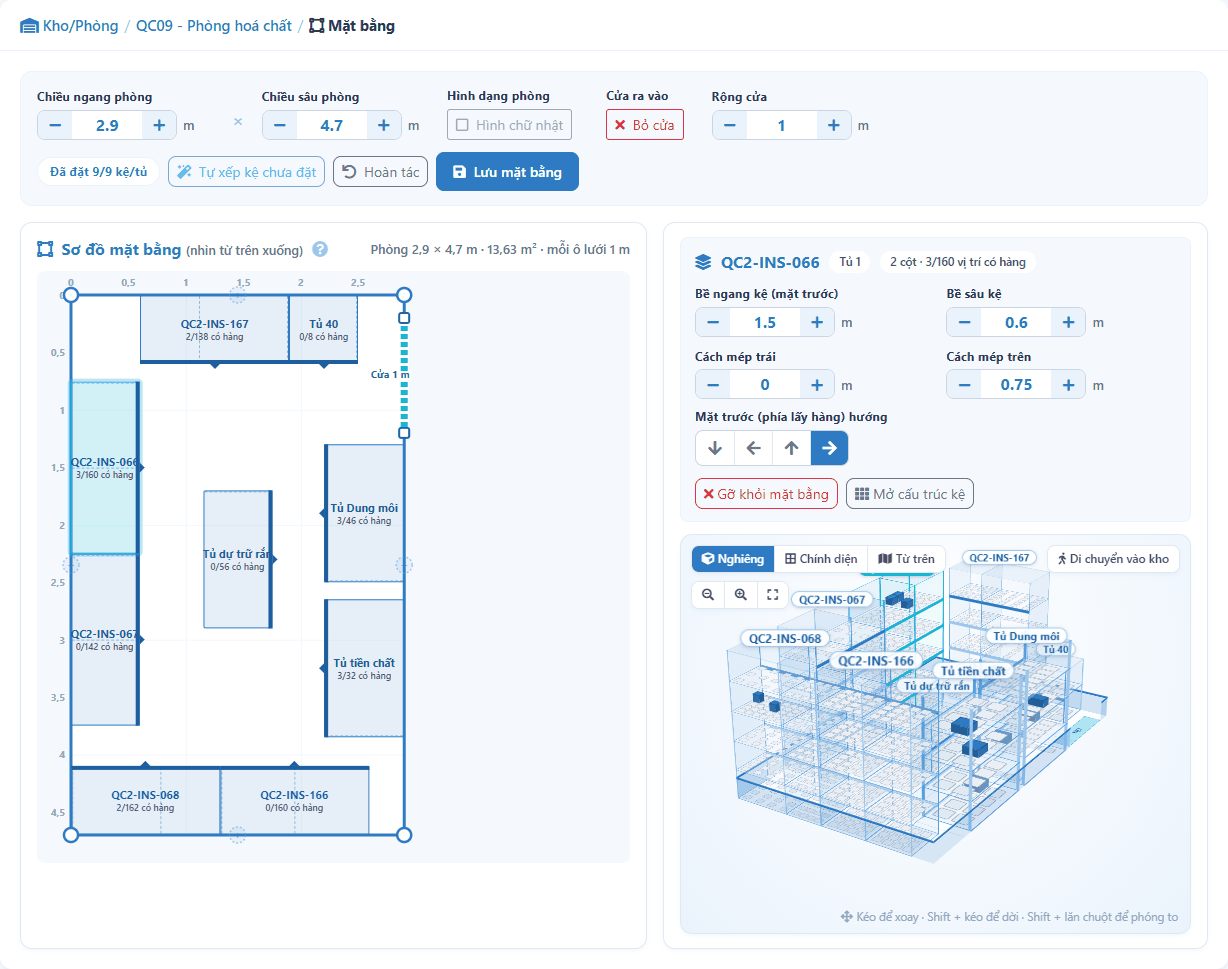
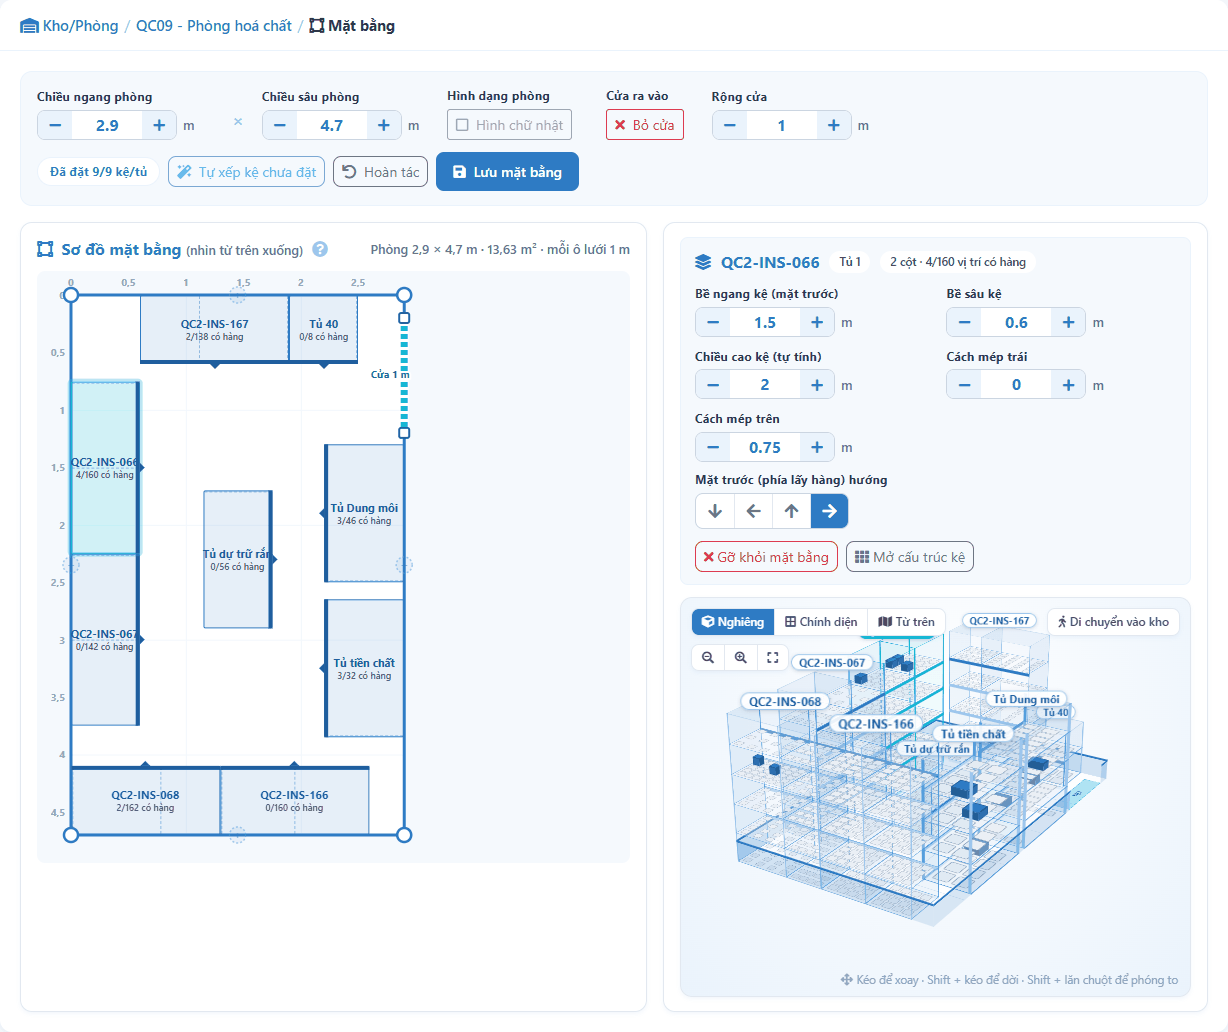
18/11/2026

diff --git a/app/Http/Controllers/Pages/MaterData/ZoneStructureController.php b/app/Http/Controllers/Pages/MaterData/ZoneStructureController.php
@@ -48,6 +48,9 @@ class ZoneStructureController extends Controller
     private const LAYOUT_MAX_ROOM = 200;
     private const LAYOUT_MIN_SHELF = 0.2;
     private const LAYOUT_MAX_SHELF = 50;
+
+    /** Chiều cao kệ/tủ tối đa khai ở Mặt bằng (m) */
+    private const LAYOUT_MAX_HEIGHT = 15;
     private const DOOR_WIDTH = 1;
 
     /** Tường có cửa trên sơ đồ mặt bằng (trên = tường trong cùng khi nhìn 3D). */
@@ -637,7 +640,7 @@ class ZoneStructureController extends Controller
             ->where('warehouse_id', $warehouse->id)
             ->where('status_id', 1)
             ->orderBy('code')
-            ->get(['id', 'code', 'name', 'tier_order', 'layout_x', 'layout_y', 'layout_width', 'layout_depth', 'layout_rotation']);
+            ->get(['id', 'code', 'name', 'tier_order', 'layout_x', 'layout_y', 'layout_width', 'layout_depth', 'layout_height', 'layout_rotation']);
 
         $ids = $shelves->pluck('id')->all();
 
@@ -706,6 +709,8 @@ class ZoneStructureController extends Controller
                 'y' => (float) $shelf->layout_y,
                 'width' => (float) $shelf->layout_width,
                 'depth' => (float) $shelf->layout_depth,
+                // 0 = tự tính theo số tầng
+                'height' => (float) $shelf->layout_height,
                 'rotation' => (int) $shelf->layout_rotation,
             ];
 
@@ -753,6 +758,7 @@ class ZoneStructureController extends Controller
             'shelves.*.y' => ['nullable', 'numeric', 'min:0', 'max:' . $max],
             'shelves.*.width' => ['nullable', 'numeric', 'min:' . self::LAYOUT_MIN_SHELF, 'max:' . self::LAYOUT_MAX_SHELF],
             'shelves.*.depth' => ['nullable', 'numeric', 'min:' . self::LAYOUT_MIN_SHELF, 'max:' . self::LAYOUT_MAX_SHELF],
+            'shelves.*.height' => ['nullable', 'numeric', 'min:0', 'max:' . self::LAYOUT_MAX_HEIGHT],
             'shelves.*.rotation' => ['nullable', Rule::in(self::ROTATIONS)],
         ], [
             'room.polygon.required' => 'Chưa vẽ hình dạng phòng.',
@@ -766,6 +772,7 @@ class ZoneStructureController extends Controller
             'shelves.*.depth.min' => 'Bề sâu kệ tối thiểu ' . self::LAYOUT_MIN_SHELF . ' m.',
             'shelves.*.width.max' => 'Bề ngang kệ tối đa ' . self::LAYOUT_MAX_SHELF . ' m.',
             'shelves.*.depth.max' => 'Bề sâu kệ tối đa ' . self::LAYOUT_MAX_SHELF . ' m.',
+            'shelves.*.height.max' => 'Chiều cao kệ tối đa ' . self::LAYOUT_MAX_HEIGHT . ' m.',
             'shelves.*.rotation.in' => 'Hướng mặt trước của kệ không hợp lệ.',
         ]);
 
@@ -838,7 +845,7 @@ class ZoneStructureController extends Controller
         $current = DB::table('shelves')
             ->where('department_id', $this->departmentId())
             ->where('warehouse_id', $warehouse->id)
-            ->get(['id', 'code', 'layout_x', 'layout_y', 'layout_width', 'layout_depth', 'layout_rotation'])
+            ->get(['id', 'code', 'layout_x', 'layout_y', 'layout_width', 'layout_depth', 'layout_height', 'layout_rotation'])
             ->keyBy('id');
 
         $plans = [];
@@ -854,8 +861,11 @@ class ZoneStructureController extends Controller
                 'layout_y' => $this->metre($item['y'] ?? 0),
                 'layout_width' => $this->metre($item['width'] ?? 1),
                 'layout_depth' => $this->metre($item['depth'] ?? 0.5),
+                // Chiều cao kệ: 0 / trống = tự tính theo số tầng
+                'layout_height' => (float) ($item['height'] ?? 0) > 0
+                    ? $this->metre(min((float) $item['height'], self::LAYOUT_MAX_HEIGHT)) : null,
                 'layout_rotation' => (int) ($item['rotation'] ?? 0),
-            ] : array_fill_keys(['layout_x', 'layout_y', 'layout_width', 'layout_depth', 'layout_rotation'], null);
+            ] : array_fill_keys(['layout_x', 'layout_y', 'layout_width', 'layout_depth', 'layout_height', 'layout_rotation'], null);
         }
 
         // Kệ phải nằm trọn trong phòng và không chồng lên nhau (kệ xoay 90/270 thì đổi ngang - sâu).
@@ -884,10 +894,11 @@ class ZoneStructureController extends Controller
         $shelfFields = [
             'layout_x' => 'Mặt bằng - tâm kệ theo chiều ngang (m)', 'layout_y' => 'Mặt bằng - tâm kệ theo chiều sâu (m)',
             'layout_width' => 'Mặt bằng - bề ngang kệ (m)', 'layout_depth' => 'Mặt bằng - bề sâu kệ (m)',
+            'layout_height' => 'Mặt bằng - chiều cao kệ (m)',
             'layout_rotation' => 'Mặt bằng - hướng mặt trước',
         ];
         $roomMaps = ['layout_door_wall' => ['' => 'Chưa khai'] + self::DOOR_WALLS, 'layout_polygon' => ['' => 'Hình chữ nhật'], 'layout_door' => ['' => 'Chưa có cửa']];
-        $shelfMaps = ['layout_rotation' => ['' => 'Chưa đặt'] + self::ROTATION_LABELS];
+        $shelfMaps = ['layout_height' => ['' => 'Tự tính theo số tầng'], 'layout_rotation' => ['' => 'Chưa đặt'] + self::ROTATION_LABELS];
 
         $changed = DB::transaction(function () use ($warehouse, $room, $plans, $current, $roomFields, $shelfFields, $roomMaps, $shelfMaps, $polygon) {
             $actor = $this->actor();
@@ -932,6 +943,7 @@ class ZoneStructureController extends Controller
             'maxRoom' => self::LAYOUT_MAX_ROOM,
             'minShelf' => self::LAYOUT_MIN_SHELF,
             'maxShelf' => self::LAYOUT_MAX_SHELF,
+            'maxHeight' => self::LAYOUT_MAX_HEIGHT,
             'doorWidth' => \App\Support\RoomLayout::DOOR_DEFAULT,
             'doorMin' => \App\Support\RoomLayout::DOOR_MIN,
             'doorMax' => \App\Support\RoomLayout::DOOR_MAX,

diff --git a/resources/views/pages/materData/Zone/layout.blade.php b/resources/views/pages/materData/Zone/layout.blade.php
@@ -1029,6 +1029,15 @@
 
         /* ---------- khung chỉnh kệ đang chọn ---------- */
 
+        // Chiều cao mặc định khi chưa khai: số tầng cao nhất × TIER_METRE
+        function autoHeight(s) {
+            var levels = 0;
+            (s.columns || []).forEach(function(c) {
+                (c.tiers || []).forEach(function(t) { levels = Math.max(levels, Number(t.position) || 0); });
+            });
+            return round(Math.max(1, levels) * TIER_METRE);
+        }
+
         function stepper(field, label, value, step, min, max) {
             var off = editable() ? '' : ' disabled';
             return '<div class="zl-field"><label>' + label + '</label>' +
@@ -1056,6 +1065,8 @@
                     ? '<div class="zl-sel-grid">' +
                         stepper('shelf.width', 'Bề ngang kệ (mặt trước)', s.width, 0.1, S.limits.minShelf, S.limits.maxShelf) +
                         stepper('shelf.depth', 'Bề sâu kệ', s.depth, 0.1, S.limits.minShelf, S.limits.maxShelf) +
+                        // Chiều cao thật của kệ (3D Mặt bằng). 0 = tự tính theo số tầng
+                        stepper('shelf.height', 'Chiều cao kệ' + (s.height > 0 ? '' : ' (tự tính)'), s.height > 0 ? s.height : autoHeight(s), 0.1, 0, S.limits.maxHeight || 15) +
                         stepper('shelf.left', 'Cách mép trái', b[0], 0.1, 0, S.limits.maxRoom) +
                         stepper('shelf.top', 'Cách mép trên', b[1], 0.1, 0, S.limits.maxRoom) +
                         '</div>' +
@@ -1145,7 +1156,7 @@
                 empty: 'Chưa đặt kệ/tủ nào vào phòng.',
                 shelves: placed.map(function(s) {
                     return {
-                        key: String(s.id), label: s.code, x: s.x, y: s.y, width: s.width, depth: s.depth, rotation: s.rotation,
+                        key: String(s.id), label: s.code, x: s.x, y: s.y, width: s.width, depth: s.depth, height: s.height, rotation: s.rotation,
                         selected: S.selected === s.id, clash: !!bad[s.id], model: shelfModel(s, cells)
                     };
                 })
@@ -1180,7 +1191,8 @@
                             id: Number(s.id), code: s.code, name: s.name, tier_order: s.tier_order, columns: s.columns,
                             total: s.total, used: s.used, placed: !!s.layout,
                             x: s.layout ? s.layout.x : 0, y: s.layout ? s.layout.y : 0,
-                            width: size.width, depth: size.depth, rotation: s.layout ? s.layout.rotation : 0
+                            width: size.width, depth: size.depth, rotation: s.layout ? s.layout.rotation : 0,
+                            height: s.layout ? Number(s.layout.height) || 0 : 0
                         };
                     });
 
@@ -1245,7 +1257,7 @@
                         door: S.room.door ? { edge: S.room.door.edge, offset: round(S.room.door.offset), width: round(S.room.door.width) } : null
                     },
                     shelves: S.shelves.map(function(s) {
-                        return { id: s.id, placed: s.placed, x: s.x, y: s.y, width: s.width, depth: s.depth, rotation: s.rotation };
+                        return { id: s.id, placed: s.placed, x: s.x, y: s.y, width: s.width, depth: s.depth, height: s.height || 0, rotation: s.rotation };
                     })
                 })
             })
@@ -1310,6 +1322,9 @@
                 var c = clampCenter(s, s.x, s.y);
                 s.x = round(c.x);
                 s.y = round(c.y);
+            } else if (s && field === 'shelf.height') {
+                // 0 hoặc trống = tự tính theo số tầng
+                s.height = value > 0 ? clamp(round(value), 0.3, S.limits.maxHeight || 15) : 0;
             } else if (s && (field === 'shelf.left' || field === 'shelf.top')) {
                 var b = box(s);
                 var at = clampCenter(s, field === 'shelf.left' ? s.x + value - b[0] : s.x, field === 'shelf.top' ? s.y + value - b[1] : s.y);
@@ -1328,7 +1343,7 @@
             if (field.indexOf('room.') === 0) return Number(S.room[field.slice(5)]) || 0;
             if (!s) return 0;
             var b = box(s);
-            return { 'shelf.width': s.width, 'shelf.depth': s.depth, 'shelf.left': b[0], 'shelf.top': b[1] }[field];
+            return { 'shelf.width': s.width, 'shelf.depth': s.depth, 'shelf.height': s.height > 0 ? s.height : autoHeight(s), 'shelf.left': b[0], 'shelf.top': b[1] }[field];
         }
 
         root.addEventListener('click', function(event) {

diff --git a/resources/views/pages/inventory/shared/zone3d.blade.php b/resources/views/pages/inventory/shared/zone3d.blade.php
@@ -1001,6 +1001,7 @@
                             shelf: shelf, x: Number(shelf.layout_x), y: Number(shelf.layout_y),
                             width: Number(shelf.layout_width) || defaultSize(shelf).width,
                             depth: Number(shelf.layout_depth) || defaultSize(shelf).depth,
+                            height: Number(shelf.layout_height) || 0,
                             rotation: Number(shelf.layout_rotation) || 0
                         });
                     });
@@ -1109,7 +1110,7 @@
                         return {
                             ghost: true,
                             label: (item.shelf.code || item.shelf.name || '') + ' · ' + item.shelf.ghost,
-                            x: item.x, y: item.y, width: item.width, depth: item.depth, rotation: item.rotation,
+                            x: item.x, y: item.y, width: item.width, depth: item.depth, height: item.height, rotation: item.rotation,
                             model: shelfModel(ctx, item.shelf, f, true)
                         };
                     }
@@ -1120,7 +1121,7 @@
                         label: (clashes ? '⚠ ' : '') + (item.shelf.code || item.shelf.name || '') + (f.active && hits ? ' · ' + hits + ' khớp' : '') +
                             (clashes ? ' · ' + clashes + ' tương kỵ' : ''),
                         clash: clashes > 0,
-                        x: item.x, y: item.y, width: item.width, depth: item.depth, rotation: item.rotation,
+                        x: item.x, y: item.y, width: item.width, depth: item.depth, height: item.height, rotation: item.rotation,
                         selected: f.active && hits > 0,
                         // Đang tìm (gõ / quét mã): thẻ chi tiết hàng khớp thay cho nhãn mã kệ
                         card: seeking && hits ? hitCard(ctx, item.shelf, f) : null,

diff --git a/resources/views/pages/shared/shelf3d.blade.php b/resources/views/pages/shared/shelf3d.blade.php
@@ -1161,7 +1161,7 @@
          |           width, depth, ppm (px/m, mặc định 100), tierMetre (chiều cao 1 tầng, m),
          |           door: { edge, offset, width } (cạnh i đi từ góc i tới góc i+1, offset đo từ góc i)
          |                 hoặc kiểu cũ { wall: top|right|bottom|left, offset, width } | null,
-         |           shelves: [{ key, label, x, y (tâm, m), width, depth (m), rotation, selected, clash, model,
+         |           shelves: [{ key, label, x, y (tâm, m), width, depth, height (m, tuỳ chọn), rotation, selected, clash, model,
          |                       card: { title, count, lines: [{ name, code, qty, loc }], more } }] }
          | Trục sơ đồ: x sang phải, y xuống dưới (= hướng về phía người xem ở 3D). rotation = hướng mặt trước
          | theo chiều kim đồng hồ trên sơ đồ: 0 xuống, 90 trái, 180 lên, 270 phải.
@@ -1266,7 +1266,8 @@
             (room.shelves || []).forEach(function(s, si) {
                 var built = buildShelf(s.model || {}, true);
                 var X = s.x * PPM - RW / 2, Z = s.y * PPM - RD / 2;
-                var height = (built ? built.levels : 1) * (room.tierMetre || 0.4) * PPM;
+                // Chiều cao thật đã khai ở Mặt bằng (m), chưa khai thì theo số tầng × tierMetre
+                var height = (Number(s.height) > 0 ? Number(s.height) : (built ? built.levels : 1) * (room.tierMetre || 0.4)) * PPM;
                 tallest = Math.max(tallest, height);
                 units.push({ x: X, z: Z });
 

diff --git a/resources/views/pages/userGuide/materData/sections/zone.blade.php b/resources/views/pages/userGuide/materData/sections/zone.blade.php
@@ -172,7 +172,7 @@
     <li>Đặt kệ vào phòng: kéo tên kệ ở dòng <b>Kệ/tủ chưa đặt</b> thả vào sơ đồ, bấm vào tên kệ để đặt vào chỗ trống đầu tiên,
         hoặc bấm <b>Tự xếp kệ chưa đặt</b> để xếp lần lượt tất cả. Kệ mới đặt lấy kích thước gợi ý theo số ô của kệ.</li>
     <li>Kéo kệ trên sơ đồ để dời chỗ (bước 0,05 m, không ra được ngoài tường). Bấm chọn một kệ để chỉnh ở khung bên phải:
-        <b>Bề ngang kệ (mặt trước)</b>, <b>Bề sâu kệ</b>, <b>Cách mép trái</b>, <b>Cách mép trên</b> (tính từ mép khung bao) và
+        <b>Bề ngang kệ (mặt trước)</b>, <b>Bề sâu kệ</b>, <b>Chiều cao kệ</b> (chiều cao thật để 3D Mặt bằng vẽ đúng tỉ lệ; nhập 0 = tự tính theo số tầng, mỗi tầng 0,4 m), <b>Cách mép trái</b>, <b>Cách mép trên</b> (tính từ mép khung bao) và
         <b>Mặt trước (phía lấy hàng) hướng</b> xuống / trái / lên / phải. Trên sơ đồ, mặt trước là cạnh đậm có mũi tên.
         Phím tắt khi đang chọn kệ: mũi tên dời 0,1 m (giữ <span class="ug-key">Shift</span>: 0,5 m),
         <span class="ug-key">R</span> xoay 90°, <span class="ug-key">Delete</span> gỡ khỏi mặt bằng,

diff --git a/app/Http/Controllers/Pages/Inventory/ChemicalInventoryController.php b/app/Http/Controllers/Pages/Inventory/ChemicalInventoryController.php
@@ -1594,7 +1594,7 @@ class ChemicalInventoryController extends Controller
         // Ô giao cho bộ phận khác (kèm hàng của họ, chỉ xem) + ô phòng khác giao cho phòng này (LocationShare)
         return \App\Support\LocationShare::extendZones([
             'warehouses' => \App\Support\RoomLayout::attach($of('warehouses', ['id', 'code', 'name', 'layout_width', 'layout_depth', 'layout_polygon', 'layout_door_wall', 'layout_door_offset', 'layout_door'])),
-            'shelves' => $of('shelves', ['id', 'code', 'name', 'warehouse_id', 'tier_order', 'layout_x', 'layout_y', 'layout_width', 'layout_depth', 'layout_rotation']),
+            'shelves' => $of('shelves', ['id', 'code', 'name', 'warehouse_id', 'tier_order', 'layout_x', 'layout_y', 'layout_width', 'layout_depth', 'layout_height', 'layout_rotation']),
             'columns' => $of('columns', ['id', 'code', 'name', 'warehouse_id', 'shelf_id', 'position']),
             'tiers' => $of('tiers', ['id', 'code', 'name', 'warehouse_id', 'shelf_id', 'column_id', 'position']),
             'locations' => $this->locationOptions($departmentId),

diff --git a/app/Http/Controllers/Pages/Inventory/StandardInventoryController.php b/app/Http/Controllers/Pages/Inventory/StandardInventoryController.php
@@ -1532,7 +1532,7 @@ class StandardInventoryController extends Controller
         // Ô giao cho bộ phận khác (kèm hàng của họ, chỉ xem) + ô phòng khác giao cho phòng này (LocationShare)
         return \App\Support\LocationShare::extendZones([
             'warehouses' => \App\Support\RoomLayout::attach($of('warehouses', ['id', 'code', 'name', 'layout_width', 'layout_depth', 'layout_polygon', 'layout_door_wall', 'layout_door_offset', 'layout_door'])),
-            'shelves' => $of('shelves', ['id', 'code', 'name', 'warehouse_id', 'tier_order', 'layout_x', 'layout_y', 'layout_width', 'layout_depth', 'layout_rotation']),
+            'shelves' => $of('shelves', ['id', 'code', 'name', 'warehouse_id', 'tier_order', 'layout_x', 'layout_y', 'layout_width', 'layout_depth', 'layout_height', 'layout_rotation']),
             'columns' => $of('columns', ['id', 'code', 'name', 'warehouse_id', 'shelf_id', 'position']),
             'tiers' => $of('tiers', ['id', 'code', 'name', 'warehouse_id', 'shelf_id', 'column_id', 'position']),
             'locations' => $this->locationOptions($departmentId),

diff --git a/app/Http/Controllers/Pages/Inventory/MaterialInventoryController.php b/app/Http/Controllers/Pages/Inventory/MaterialInventoryController.php
@@ -794,7 +794,7 @@ class MaterialInventoryController extends Controller
         // Ô giao cho bộ phận khác (kèm hàng của họ, chỉ xem) + ô phòng khác giao cho phòng này (LocationShare)
         return \App\Support\LocationShare::extendZones([
             'warehouses' => \App\Support\RoomLayout::attach($of('warehouses', ['id', 'code', 'name', 'layout_width', 'layout_depth', 'layout_polygon', 'layout_door_wall', 'layout_door_offset', 'layout_door'])),
-            'shelves' => $of('shelves', ['id', 'code', 'name', 'warehouse_id', 'tier_order', 'layout_x', 'layout_y', 'layout_width', 'layout_depth', 'layout_rotation']),
+            'shelves' => $of('shelves', ['id', 'code', 'name', 'warehouse_id', 'tier_order', 'layout_x', 'layout_y', 'layout_width', 'layout_depth', 'layout_height', 'layout_rotation']),
             'columns' => $of('columns', ['id', 'code', 'name', 'warehouse_id', 'shelf_id', 'position']),
             'tiers' => $of('tiers', ['id', 'code', 'name', 'warehouse_id', 'shelf_id', 'column_id', 'position']),
             'locations' => $this->locationOptions($departmentId),

diff --git a/app/Http/Controllers/Pages/Inventory/VppInventoryController.php b/app/Http/Controllers/Pages/Inventory/VppInventoryController.php
@@ -757,7 +757,7 @@ class VppInventoryController extends Controller
         // Ô giao cho bộ phận khác (kèm hàng của họ, chỉ xem) + ô phòng khác giao cho phòng này (LocationShare)
         return \App\Support\LocationShare::extendZones([
             'warehouses' => \App\Support\RoomLayout::attach($of('warehouses', ['id', 'code', 'name', 'layout_width', 'layout_depth', 'layout_polygon', 'layout_door_wall', 'layout_door_offset', 'layout_door'])),
-            'shelves' => $of('shelves', ['id', 'code', 'name', 'warehouse_id', 'tier_order', 'layout_x', 'layout_y', 'layout_width', 'layout_depth', 'layout_rotation']),
+            'shelves' => $of('shelves', ['id', 'code', 'name', 'warehouse_id', 'tier_order', 'layout_x', 'layout_y', 'layout_width', 'layout_depth', 'layout_height', 'layout_rotation']),
             'columns' => $of('columns', ['id', 'code', 'name', 'warehouse_id', 'shelf_id', 'position']),
             'tiers' => $of('tiers', ['id', 'code', 'name', 'warehouse_id', 'shelf_id', 'column_id', 'position']),
             'locations' => $this->locationOptions($departmentId),

diff --git a/app/Support/LocationShare.php b/app/Support/LocationShare.php
@@ -320,7 +320,7 @@ class LocationShare
                 });
 
             $zones['warehouses'] = collect($zones['warehouses'] ?? [])->concat(RoomLayout::attach($warehouses))->values();
-            $zones['shelves'] = collect($zones['shelves'] ?? [])->concat($extra('shelves', 'shelf_id', ['id', 'code', 'name', 'warehouse_id', 'tier_order', 'layout_x', 'layout_y', 'layout_width', 'layout_depth', 'layout_rotation']))->values();
+            $zones['shelves'] = collect($zones['shelves'] ?? [])->concat($extra('shelves', 'shelf_id', ['id', 'code', 'name', 'warehouse_id', 'tier_order', 'layout_x', 'layout_y', 'layout_width', 'layout_depth', 'layout_height', 'layout_rotation']))->values();
             $zones['columns'] = collect($zones['columns'] ?? [])->concat($extra('columns', 'column_id', ['id', 'code', 'name', 'warehouse_id', 'shelf_id', 'position']))->values();
             $zones['tiers'] = collect($zones['tiers'] ?? [])->concat($extra('tiers', 'tier_id', ['id', 'code', 'name', 'warehouse_id', 'shelf_id', 'column_id', 'position']))->values();
         }

diff --git a/app/Http/Controllers/General/PublicStockLookupController.php b/app/Http/Controllers/General/PublicStockLookupController.php
@@ -294,7 +294,7 @@ class PublicStockLookupController extends Controller
 
         return \App\Support\LocationShare::extendZones([
             'warehouses' => \App\Support\RoomLayout::attach($of('warehouses', ['id', 'code', 'name', 'layout_width', 'layout_depth', 'layout_polygon', 'layout_door_wall', 'layout_door_offset', 'layout_door'])),
-            'shelves' => $of('shelves', ['id', 'code', 'name', 'warehouse_id', 'tier_order', 'layout_x', 'layout_y', 'layout_width', 'layout_depth', 'layout_rotation']),
+            'shelves' => $of('shelves', ['id', 'code', 'name', 'warehouse_id', 'tier_order', 'layout_x', 'layout_y', 'layout_width', 'layout_depth', 'layout_height', 'layout_rotation']),
             'columns' => $of('columns', ['id', 'code', 'name', 'warehouse_id', 'shelf_id', 'position']),
             'tiers' => $of('tiers', ['id', 'code', 'name', 'warehouse_id', 'shelf_id', 'column_id', 'position']),
             'locations' => DB::table('locations')

diff --git a/database/migrations/2026_11_19_100000_add_layout_height_to_shelves.php b/database/migrations/2026_11_19_100000_add_layout_height_to_shelves.php
@@ -1,0 +1,29 @@
+<?php
+
+use Illuminate\Database\Migrations\Migration;
+use Illuminate\Database\Schema\Blueprint;
+use Illuminate\Support\Facades\Schema;
+
+/**
+ * Mặt bằng kho/phòng: chiều cao thật của kệ/tủ (m). Null = tự tính theo số tầng (0,4 m / tầng).
+ */
+return new class extends Migration
+{
+    public function up(): void
+    {
+        if (! Schema::hasColumn('shelves', 'layout_height')) {
+            Schema::table('shelves', function (Blueprint $table) {
+                $table->decimal('layout_height', 6, 2)->nullable()->after('layout_depth');
+            });
+        }
+    }
+
+    public function down(): void
+    {
+        if (Schema::hasColumn('shelves', 'layout_height')) {
+            Schema::table('shelves', function (Blueprint $table) {
+                $table->dropColumn('layout_height');
+            });
+        }
+    }
+};
